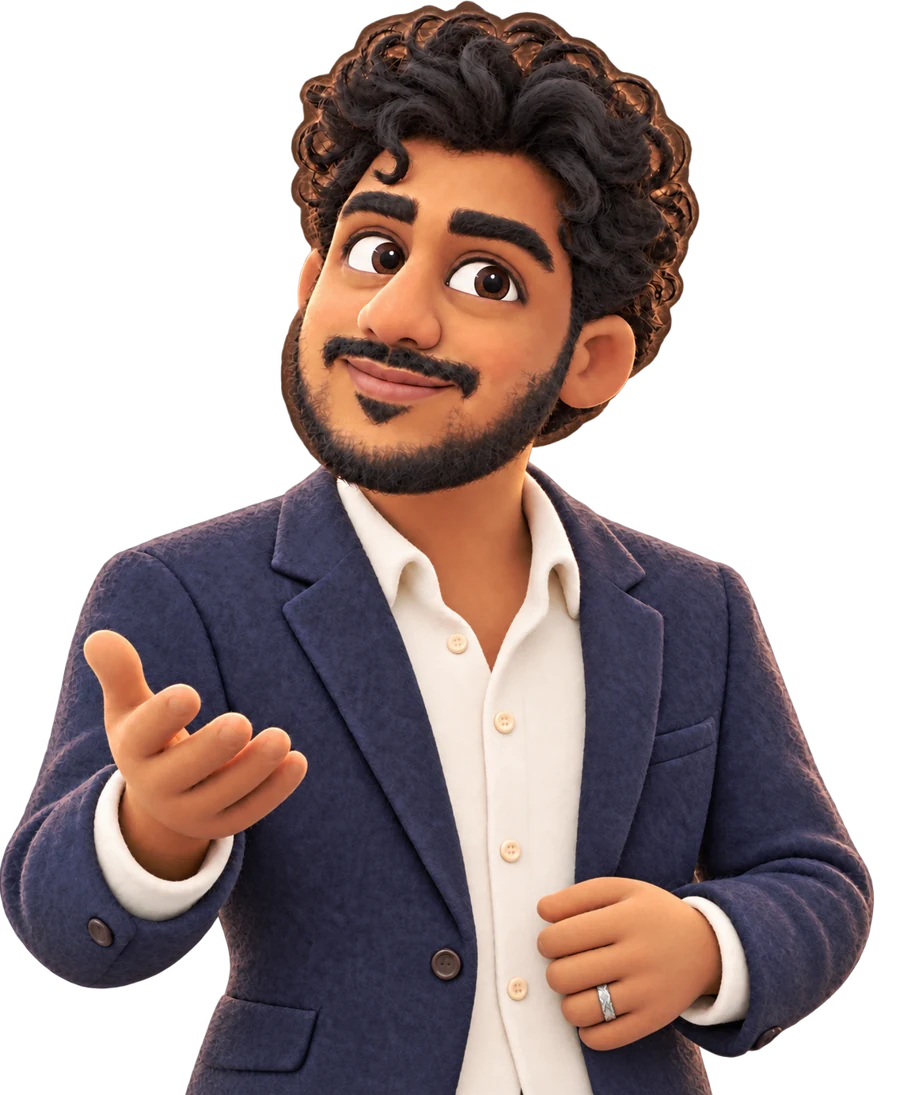
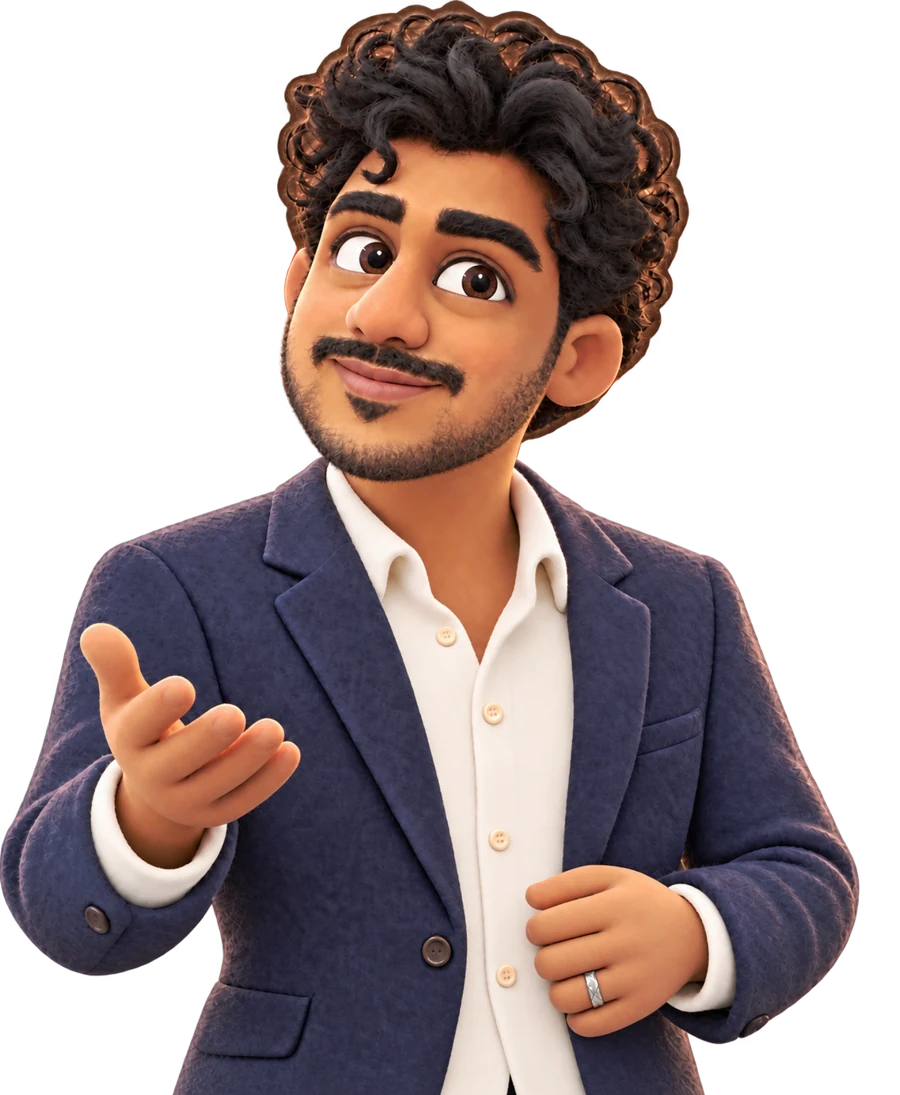
Add scroll-controlled laptop approach and project reveal, lighter beard and readable contact pill

diff --git a/index.html b/index.html
@@ -1,7 +1,7 @@
-<!doctype html><html lang="en"><head><link rel="preload" href="assets/BebasNeue-Regular.ttf" as="font" type="font/ttf" crossorigin><meta charset="utf-8"><meta name="viewport" content="width=device-width,initial-scale=1"><meta name="description" content="Shaik Arham Saquib — Dublin-based Business Intelligence, Data Analytics and Application Support professional. Explore working projects, enterprise experience and MSc research."><link rel="canonical" href="https://arham-bi.vercel.app/"><meta property="og:url" content="https://arham-bi.vercel.app/"><meta name="twitter:card" content="summary_large_image"><meta property="og:title" content="Arham Saquib | BI & Data Analytics · Dublin"><meta property="og:description" content="A Dublin journey through data, enterprise systems and explainable AI. A portfolio by Shaik Arham Saquib."><meta property="og:image" content="https://arham-bi.vercel.app/assets/arham-speaking.webp"><meta name="theme-color" content="#080e0d"><meta name="color-scheme" content="dark light"><meta name="robots" content="index,follow"><title>Arham Saquib | Business Intelligence & Data Analytics · Dublin</title><link rel="icon" href="favicon.ico?v=series4" sizes="any"><link rel="icon" href="assets/favicon.png?v=series4" type="image/png" sizes="48x48"><link rel="stylesheet" href="style.css?v=cinema1"><script defer src="portfolio-data.js?v=series2"></script><script defer src="app.js?v=cinema1"></script><noscript><style>#main-nav{display:flex!important;position:static!important;flex-wrap:wrap;flex-direction:row!important}.nav{position:relative;flex-wrap:wrap}.menu-toggle{display:none!important}.studio-hero{padding-top:40px}</style></noscript><link rel="preconnect" href="https://fonts.googleapis.com"><link rel="preconnect" href="https://fonts.gstatic.com" crossorigin><link href="https://fonts.googleapis.com/css2?family=Anton&family=Inter:wght@400;500;600;700&display=swap" rel="stylesheet"><link rel="stylesheet" href="carousel-build/arham-portfolio.css"><script type="module" src="carousel-build/carousel.js"></script><link href="https://db.onlinewebfonts.com/c/5ac3fe7c6abd2f62067f266d89671492?family=HelveticaNowDisplay-Medium" rel="stylesheet"><link href="https://db.onlinewebfonts.com/c/1aa3377e489837a26d019bba501e779d?family=HelveticaNowDisplayW01-Rg" rel="stylesheet"></head>
+<!doctype html><html lang="en"><head><link rel="preload" href="assets/BebasNeue-Regular.ttf" as="font" type="font/ttf" crossorigin><meta charset="utf-8"><meta name="viewport" content="width=device-width,initial-scale=1"><meta name="description" content="Shaik Arham Saquib — Dublin-based Business Intelligence, Data Analytics and Application Support professional. Explore working projects, enterprise experience and MSc research."><link rel="canonical" href="https://arham-bi.vercel.app/"><meta property="og:url" content="https://arham-bi.vercel.app/"><meta name="twitter:card" content="summary_large_image"><meta property="og:title" content="Arham Saquib | BI & Data Analytics · Dublin"><meta property="og:description" content="A Dublin journey through data, enterprise systems and explainable AI. A portfolio by Shaik Arham Saquib."><meta property="og:image" content="https://arham-bi.vercel.app/assets/arham-speaking.webp"><meta name="theme-color" content="#080e0d"><meta name="color-scheme" content="dark light"><meta name="robots" content="index,follow"><title>Arham Saquib | Business Intelligence & Data Analytics · Dublin</title><link rel="icon" href="favicon.ico?v=series4" sizes="any"><link rel="icon" href="assets/favicon.png?v=series4" type="image/png" sizes="48x48"><link rel="stylesheet" href="style.css?v=zoom2"><script defer src="portfolio-data.js?v=series2"></script><script defer src="app.js?v=zoom2"></script><noscript><style>#main-nav{display:flex!important;position:static!important;flex-wrap:wrap;flex-direction:row!important}.nav{position:relative;flex-wrap:wrap}.menu-toggle{display:none!important}.studio-hero{padding-top:40px}</style></noscript><link rel="preconnect" href="https://fonts.googleapis.com"><link rel="preconnect" href="https://fonts.gstatic.com" crossorigin><link href="https://fonts.googleapis.com/css2?family=Anton&family=Inter:wght@400;500;600;700&display=swap" rel="stylesheet"><link rel="stylesheet" href="carousel-build/arham-portfolio.css"><script type="module" src="carousel-build/carousel.js"></script><link href="https://db.onlinewebfonts.com/c/5ac3fe7c6abd2f62067f266d89671492?family=HelveticaNowDisplay-Medium" rel="stylesheet"><link href="https://db.onlinewebfonts.com/c/1aa3377e489837a26d019bba501e779d?family=HelveticaNowDisplayW01-Rg" rel="stylesheet"></head>
 <body class="light" data-city-scene="skyline"><div class="reading-progress" aria-hidden="true"></div><a class="skip" href="#main">Skip to portfolio</a>
 <header class="nav"><a class="wordmark" href="#top" aria-label="Arham home">ARHAM<span>DUBLIN / DATA & BI</span></a><button id="menu-toggle" class="menu-toggle" type="button" aria-expanded="false" aria-controls="main-nav">Menu <span aria-hidden="true">＋</span></button><nav id="main-nav" aria-label="Main navigation"><a href="#projects">Projects</a><a href="#journey">Experience</a><a href="#dcu">DCU research</a><a href="#skills">Skills</a><a href="#recognition">Recognition</a><a href="#contact">Contact</a></nav><div class="nav-actions"><a href="assets/Shaik_Arham_Saquib.pdf" download class="cv-nav">Download CV ↓</a><button id="theme-toggle" aria-label="Switch to light theme" type="button">☀</button><button id="motion-toggle" type="button" aria-pressed="true">Motion on</button></div></header><main id="main"><section class="immersive-hero" id="top" aria-label="Portfolio introduction"><div id="hero-carousel" class="hero-carousel-mount"><noscript><h1>Arham Saquib · Business Intelligence & Data Analytics</h1><p>Explore my projects, experience and DCU research below.</p></noscript></div><div class="proof-ribbon"><a href="#journey"><strong>2.5+</strong><span>years of enterprise experience<br>Hitachi Digital Services</span></a><a href="#dcu"><strong>MSc</strong><span>Computing · Data Analytics<br>Dublin City University</span></a><a href="#recognition"><strong>✦</strong><span>Hitachi Pinnacle Award<br>View the certificate ↗</span></a></div></section><div class="studio-strip" aria-label="Portfolio focus"><span>ENTERPRISE REPORTING</span><i>✦</i><span>DUBLIN CITY UNIVERSITY</span><i>✦</i><span>EXPLAINABLE AI</span><i>✦</i><span>RELIABLE DATA</span><i>✦</i><span>APPLICATION SUPPORT</span></div>
-<section class="evidence-cinema" aria-label="From enterprise experience to independent work"><div class="cinema-stage"><div class="cinema-heading"><p class="eyebrow">A CLOSER LOOK / SCROLL TO EXPLORE</p><h2>From complexity.<br><span>To clarity.</span></h2></div><div class="cinema-scenes"><article class="cinema-scene cinema-current"><div class="cinema-caption"><small>01 / ENTERPRISE FOUNDATION</small><h3>Find the signal.</h3><p>2.5+ years at Hitachi Digital Services, investigating data issues and supporting enterprise reporting.</p><a href="#journey">Explore my experience ↗</a></div><img src="assets/arham-build.webp" alt="Arham’s illustrated character working on a laptop" width="900" height="1095" loading="lazy"></article><article class="cinema-scene"><div class="cinema-caption"><small>02 / DUBLIN CITY UNIVERSITY</small><h3>Explain the why.</h3><p>Co-authored MSc research connecting XGBoost forecasts, SHAP explanations and residential energy scheduling.</p><a href="#dcu">Explore the research ↗</a></div><img class="cinema-photo" src="assets/arham-dcu-campus.jpeg" alt="Arham beside the DCU letters on campus" width="1536" height="645" loading="lazy"></article><article class="cinema-scene"><div class="cinema-caption"><small>03 / INDEPENDENT PROJECTS</small><h3>Make it useful.</h3><p>Working demonstrations of incident investigation, customer analysis, workforce reporting and data controls.</p><a href="#projects">Open the projects ↗</a></div><img class="cinema-screen" src="assets/opsresolve-dashboard.png" alt="OpsResolve AI incident analytics demonstration dashboard using fictional data" loading="lazy"></article></div><div class="cinema-track" aria-hidden="true"><span></span><span></span><span></span></div><span class="cinema-scroll" aria-hidden="true">KEEP SCROLLING ↓</span></div></section><section class="quick-row section-pad" aria-label="Quick portfolio routes"><div class="row-heading"><h2>Start with the evidence</h2><span>Projects, experience and a downloadable CV</span></div><div class="quick-grid"><a href="#projects"><span class="quick-number">01</span><div><small>THE ORIGINALS</small><strong>Five projects. Five different problems.</strong><span>Explore working demos →</span></div></a><a href="#journey"><span class="quick-number">02</span><div><small>THE JOURNEY</small><strong>Enterprise systems to explainable AI.</strong><span>Follow the timeline →</span></div></a><a href="assets/Shaik_Arham_Saquib.pdf" download><span class="quick-number">03</span><div><small>THE SHORT VERSION</small><strong>The CV, ready when you are.</strong><span>Download PDF ↓</span></div></a></div></section>
+<section id="evidence" class="evidence-cinema" aria-label="From enterprise experience to independent work"><div class="cinema-stage"><div class="cinema-heading"><p class="eyebrow">A CLOSER LOOK / SCROLL TO EXPLORE</p><h2>From complexity.<br><span>To clarity.</span></h2></div><div class="cinema-scenes"><article class="cinema-scene cinema-current"><div class="cinema-caption"><small>01 / ENTERPRISE FOUNDATION</small><h3>Find the signal.</h3><p>2.5+ years at Hitachi Digital Services, investigating data issues and supporting enterprise reporting.</p><a href="#journey">Explore my experience ↗</a></div><div class="laptop-journey"><img class="laptop-person" src="assets/arham-build.webp" alt="Arham’s character holding a laptop with his left hand and working with his right" width="900" height="1095" loading="lazy"><div class="laptop-portal" aria-hidden="true"><div class="portal-chrome"><i></i><i></i><i></i><span>OPSRESOLVE AI / INDEPENDENT DEMO</span></div><img src="assets/opsresolve-dashboard.png" alt="" loading="lazy"><span class="portal-note">From investigation to a working demonstration.</span></div></div></article><article class="cinema-scene"><div class="cinema-caption"><small>02 / DUBLIN CITY UNIVERSITY</small><h3>Explain the why.</h3><p>Co-authored MSc research connecting XGBoost forecasts, SHAP explanations and residential energy scheduling.</p><a href="#dcu">Explore the research ↗</a></div><img class="cinema-photo" src="assets/arham-dcu-campus.jpeg" alt="Arham beside the DCU letters on campus" width="1536" height="645" loading="lazy"></article><article class="cinema-scene"><div class="cinema-caption"><small>03 / INDEPENDENT PROJECTS</small><h3>Make it useful.</h3><p>Working demonstrations of incident investigation, customer analysis, workforce reporting and data controls.</p><a href="#projects">Open the projects ↗</a></div><img class="cinema-screen" src="assets/opsresolve-dashboard.png" alt="OpsResolve AI incident analytics demonstration dashboard using fictional data" loading="lazy"></article></div><div class="cinema-track" aria-hidden="true"><span></span><span></span><span></span></div><span class="cinema-scroll" aria-hidden="true">KEEP SCROLLING ↓</span></div></section><section class="quick-row section-pad" aria-label="Quick portfolio routes"><div class="row-heading"><h2>Start with the evidence</h2><span>Projects, experience and a downloadable CV</span></div><div class="quick-grid"><a href="#projects"><span class="quick-number">01</span><div><small>THE ORIGINALS</small><strong>Five projects. Five different problems.</strong><span>Explore working demos →</span></div></a><a href="#journey"><span class="quick-number">02</span><div><small>THE JOURNEY</small><strong>Enterprise systems to explainable AI.</strong><span>Follow the timeline →</span></div></a><a href="assets/Shaik_Arham_Saquib.pdf" download><span class="quick-number">03</span><div><small>THE SHORT VERSION</small><strong>The CV, ready when you are.</strong><span>Download PDF ↓</span></div></a></div></section>
 <div id="story-sections"><section class="section-pad about-section" id="about" data-city-scene="bridges"><div class="about-label"><p class="eyebrow">EPISODE 01 / THE PROFILE</p><span class="outline-number">01</span></div><div class="about-copy"><p class="eyebrow">HYDERABAD → DUBLIN / ORIGIN & DIRECTION</p><h2>The story behind<br><em>the work.</em></h2><p>My work sits where enterprise systems, reporting and practical problem-solving meet. At Hitachi Digital Services, I investigated data issues, supported Oracle-based environments and worked with teams on reliable reporting and controlled system changes.</p><p>At Dublin City University, I extended that foundation into machine learning and explainable AI. Now I’m looking for Data Analyst, BI, Reporting Analyst and Application Support opportunities in Dublin and across Ireland.</p><div class="profile-facts"><div><strong>2.5+</strong><span>years at Hitachi</span></div><div><strong>MSc</strong><span>Computing · Data Analytics</span></div><div><strong>Dublin</strong><span>Ireland</span></div></div></div></section><section class="section-pad journey-section" id="journey" data-city-scene="bridges"><div class="river-timeline" aria-hidden="true"><svg viewBox="0 0 100 700" preserveAspectRatio="none"><path class="river-track" d="M50 0C-25 130 125 200 50 330S-15 510 50 700"/><path class="river-progress" pathLength="1" d="M50 0C-25 130 125 200 50 330S-15 510 50 700"/></svg></div><div class="section-heading"><div><p class="eyebrow">EPISODE 02 / EXPERIENCE</p><h2>Enterprise roots.<br>A Dublin future.</h2></div><span class="small-note">Experience & education</span></div><div class="season-tabs" role="group" aria-label="Choose a career season"><button type="button" data-season="enterprise" aria-pressed="true">Season 01 · Enterprise</button><button type="button" data-season="research" aria-pressed="false">Season 02 · Research</button><button type="button" data-season="building" aria-pressed="false">Season 03 · Building</button></div><div id="season-content" class="season-content" aria-live="polite"></div><noscript><p>Hitachi Digital Services · February 2023–July 2025. MSc Computing (Data Analytics), DCU · September 2025–August 2026. B.Tech CSE, CMRIT Hyderabad · 2019–2023.</p></noscript></section><section class="section-pad dcu-section" id="dcu" data-city-scene="campus"><div class="dcu-art"><img src="assets/arham-dcu-campus.jpeg" width="1536" height="645" alt="Arham standing beside the DCU letters on campus" loading="lazy"><span>03 / DUBLIN CITY UNIVERSITY</span></div><div class="dcu-copy"><p class="eyebrow">EPISODE 03 / DUBLIN CITY UNIVERSITY</p><h2>Understanding the prediction.<br><em>Explaining the decision.</em></h2><p>At Dublin City University, my MSc connected data analytics with machine learning and explainable AI. My co-authored practicum explored residential energy-load scheduling using XGBoost, SHAP and an LLM scheduling module.</p><div class="dcu-facts"><span>MSc Computing<br><b>Data Analytics</b></span><span>Sep 2025–Aug 2026<br><b>Co-authored practicum</b></span></div><div class="dcu-actions"><button class="button primary" data-open="energy" type="button">Explore the research ↗</button><a class="button glass" href="assets/Practicum_Paper.pdf" target="_blank" rel="noreferrer">Read the paper ↗</a></div><div class="research-process" aria-label="Research method"><span>01 / FORECAST<b>XGBoost</b>Estimate consumption.</span><span>02 / EXPLAIN<b>SHAP</b>Interpret model outputs.</span><span>03 / SCHEDULE<b>LLM module</b>Evaluate cost and constraints.</span></div><small>Co-authored with Bryan Masterson · Supervised by Dr. Muhammad Salman Pathan. Findings apply to the evaluated data and experimental setup.</small><p class="dcu-photo-credit">A personal chapter at Dublin City University · Photograph supplied by Arham.</p></div></section><section class="section-pad project-section" id="projects" data-city-scene="docklands"><div class="section-heading"><div><p class="eyebrow">SELECTED WORK / INDEPENDENT DEMOS & RESEARCH</p><h2>WORK, WITH DEPTH.</h2></div><span class="collection-count" id="project-count" role="status" aria-live="polite">5 projects</span></div><p class="section-sub">Select a volume to explore the problem, method and evidence. Every result has a source and a stated limit.</p><div class="project-filters" role="group" aria-label="Filter projects"><button type="button" data-filter="all" aria-pressed="true">All work <span>5</span></button><button type="button" data-filter="support" aria-pressed="false">Application support <span>1</span></button><button type="button" data-filter="research" aria-pressed="false">Research <span>1</span></button><button type="button" data-filter="analytics" aria-pressed="false">Analytics & reporting <span>3</span></button></div><div class="project-shelf" id="project-shelf" aria-label="Interactive project shelf"></div><div class="shelf-navigation"><button type="button" id="shelf-prev" aria-label="Previous project">←</button><span id="shelf-caption" role="status">Choose a project</span><button type="button" id="shelf-next" aria-label="Next project">→</button></div><div class="collection-grid" id="project-rail"></div><noscript><p>Project previews need JavaScript. You can still open the work directly:</p><p><a href="https://shaikarham.github.io/opsresolve-ai/">OpsResolve AI demo</a> · <a href="assets/Practicum_Paper.pdf">DCU research paper</a> · <a href="https://shaikarham.github.io/customer-segmentation-rfm/site/">Customer Lens demo</a> · <a href="https://shaikarham.github.io/hr-workforce-analytics/site/">Workforce Atlas demo</a> · <a href="https://shaikarham.github.io/bi-reporting-automation/site/">Report Relay demo</a></p></noscript><p class="project-note">Independent demonstrations use fictional data. Customer Lens, Workforce Atlas and Report Relay were built in October 2026. Demo figures are sample outputs, not client results. DCU research is co-authored.</p></section><section class="section-pad" id="skills" data-city-scene="docklands"><div class="section-heading"><div><p class="eyebrow">EPISODE 05 / THE TOOLKIT</p><h2>TOOLS OF THE TRADE.</h2></div></div><div class="skills-grid"><article><span>01 / QUERY & INVESTIGATE</span><h3>Data & databases</h3><p>SQL · PL/SQL · Python · Data validation · Reconciliation</p><small>See the RFM calculations in Customer Lens and SQL controls in Report Relay.</small><button data-open="relay" type="button">Explore Report Relay ↗</button></article><article><span>02 / REPORT & SUPPORT</span><h3>Enterprise intelligence</h3><p>Oracle ERP · OBIA / OBIEE · ODI · Power BI · ETL monitoring</p><small>Enterprise reporting and application-support experience at Hitachi. The portfolio dashboards use HTML and JavaScript.</small><a href="#journey">Explore my experience ↗</a></article><article><span>03 / EXPLAIN & EVALUATE</span><h3>Machine learning</h3><p>XGBoost · SHAP · Forecast evaluation · Explainable AI</p><small>Co-authored DCU research on explainable residential energy scheduling.</small><button data-open="energy" type="button">Explore the practicum ↗</button></article></div></section><section class="section-pad recognition" id="recognition" data-city-scene="skyline"><div class="section-heading"><div><p class="eyebrow">EPISODE 06 / RECOGNITION</p><h2>THE CREDITS.</h2></div></div><div class="award-feature"><button class="award-image" id="award-open" type="button" aria-label="Enlarge Hitachi Pinnacle Award certificate"><img src="assets/hitachi-pinnacle-award.webp" alt="Hitachi Pinnacle Award certificate for Shaik Arham Saquib, The Transformers, Q4 FY24" loading="lazy"></button><div><span class="award-star" aria-hidden="true">✦</span><p class="eyebrow">HITACHI / Q4 FY24</p><h3>Pinnacle Award<br><em>The Transformers</em></h3><p>Recognition for contributions to BI and data-analytics transitions, collaboration and delivery.</p><button class="text-button" type="button" id="award-details">View the certificate ↗</button></div></div><div class="education-row"><article><small>POSTGRADUATE</small><h3>MSc Computing (Data Analytics)</h3><p>Dublin City University · Sep 2025–Aug 2026</p></article><article><small>UNDERGRADUATE</small><h3>B.Tech · Computer Science Engineering</h3><p>CMR Institute of Technology, Hyderabad · 2019–2023</p></article></div><div class="certification-row"><p class="eyebrow">CONTINUED LEARNING</p><div class="certification-grid"><article><span>BUSINESS INTELLIGENCE</span><h3>IBM Cognos Analytics 12.0.0</h3><p>Cloud training · Reporting and analytics</p></article><article><span>CLOUD & AI</span><h3>Oracle Cloud Infrastructure</h3><p>2023 AI Foundations</p></article><article><span>SUPPORT OPERATIONS</span><h3>Customer & Zendesk Support</h3><p>Customer service and support operations</p></article></div></div></section></div>
 <section class="section-pad contact" id="contact" data-city-scene="bay"><div class="bay-horizon" aria-hidden="true"></div><div class="contact-layout"><div class="contact-intro"><p class="eyebrow">AVAILABLE FOR OPPORTUNITIES / DUBLIN & IRELAND</p><h2>Let’s talk.<br><em>What’s next?</em></h2><p>Open to data, business intelligence, reporting and application-support opportunities in Dublin and Ireland.</p><div class="contact-buttons"><a class="button primary" href="mailto:sarhamsaquib@gmail.com">✉ Get in touch</a><a class="button glass" href="https://www.linkedin.com/in/arhamsaquib/" target="_blank" rel="noreferrer">LinkedIn ↗</a><a class="button glass" href="assets/Shaik_Arham_Saquib.pdf" download>Download CV ↓</a></div><a class="email-link" href="mailto:sarhamsaquib@gmail.com">sarhamsaquib@gmail.com</a></div><form action="https://formsubmit.co/sarhamsaquib@gmail.com" method="POST" id="contact-form" class="contact-form" aria-labelledby="contact-form-title">
 <div class="form-honey" aria-hidden="true"><label for="contact-company-url">Leave this empty</label><input id="contact-company-url" name="_honey" tabindex="-1" autocomplete="off"></div><h3 id="contact-form-title">Start a conversation</h3><p class="form-intro">Have a role in mind or a question about my work?</p>

diff --git a/app.js b/app.js
@@ -39,7 +39,7 @@
  $('motion-toggle').addEventListener('click',()=>{userOff=!userOff;save('arham-city-motion',userOff?'off':'on');motion();queue();});reduce.addEventListener('change',motion);motion();
  const menu=$('menu-toggle'),nav=$('main-nav');function closeMenu(){menu.setAttribute('aria-expanded','false');nav.classList.remove('menu-open');}
  menu.addEventListener('click',()=>{const open=menu.getAttribute('aria-expanded')!=='true';menu.setAttribute('aria-expanded',String(open));nav.classList.toggle('menu-open',open);});nav.addEventListener('click',e=>{if(e.target.closest('a'))closeMenu();});document.addEventListener('keydown',e=>{if(e.key==='Escape'&&menu.getAttribute('aria-expanded')==='true'){closeMenu();menu.focus();}});document.addEventListener('click',e=>{if(!e.target.closest('.nav'))closeMenu();});matchMedia('(min-width: 901px)').addEventListener('change',closeMenu);
- let pending=false;function frame(){pending=false;const max=Math.max(1,document.documentElement.scrollHeight-innerHeight);document.documentElement.style.setProperty('--reading-progress',String(scrollY/max));const hero=document.querySelector('.mainframe-hero');if(hero){const progress=Math.max(0,Math.min(1,scrollY/(hero.offsetHeight||1)));hero.style.setProperty('--hero-scroll',String(progress));}const cinema=document.querySelector('.evidence-cinema');if(cinema){const bounds=cinema.getBoundingClientRect();const progress=Math.max(0,Math.min(.999,-bounds.top/Math.max(1,bounds.height-innerHeight)));const step=Math.min(2,Math.floor(progress*3));cinema.style.setProperty('--cinema-progress',String(progress));cinema.querySelectorAll('.cinema-scene').forEach((scene,i)=>{const current=i===step;scene.classList.toggle('cinema-current',current);scene.inert=!current&&!document.body.classList.contains('motion-off')&&innerWidth>700;});cinema.querySelectorAll('.cinema-track span').forEach((dot,i)=>dot.classList.toggle('is-current',i===step));}const sections=[...document.querySelectorAll('main section[id]')];let active='top';sections.forEach(s=>{if(s.getBoundingClientRect().top<=150)active=s.id;});nav.querySelectorAll('a').forEach(a=>{if(a.hash==='#'+active)a.setAttribute('aria-current','location');else a.removeAttribute('aria-current');});}
+ let pending=false;function frame(){pending=false;const max=Math.max(1,document.documentElement.scrollHeight-innerHeight);document.documentElement.style.setProperty('--reading-progress',String(scrollY/max));const hero=document.querySelector('.mainframe-hero');if(hero){const progress=Math.max(0,Math.min(1,scrollY/(hero.offsetHeight||1)));hero.style.setProperty('--hero-scroll',String(progress));}const cinema=document.querySelector('.evidence-cinema');if(cinema){const bounds=cinema.getBoundingClientRect();const progress=Math.max(0,Math.min(.999,-bounds.top/Math.max(1,bounds.height-innerHeight)));const step=progress<.5?0:progress<.75?1:2;const zoom=Math.max(0,Math.min(1,(progress-.07)/.33));cinema.style.setProperty('--laptop-zoom',String(zoom));cinema.style.setProperty('--cinema-progress',String(progress));cinema.querySelectorAll('.cinema-scene').forEach((scene,i)=>{const current=i===step;scene.classList.toggle('cinema-current',current);scene.inert=!current&&!document.body.classList.contains('motion-off')&&innerWidth>700;});cinema.querySelectorAll('.cinema-track span').forEach((dot,i)=>dot.classList.toggle('is-current',i===step));}const sections=[...document.querySelectorAll('main section[id]')];let active='top';sections.forEach(s=>{if(s.getBoundingClientRect().top<=150)active=s.id;});nav.querySelectorAll('a').forEach(a=>{if(a.hash==='#'+active)a.setAttribute('aria-current','location');else a.removeAttribute('aria-current');});}
  function queue(){if(!pending){pending=true;requestAnimationFrame(frame);}}addEventListener('scroll',queue,{passive:true});addEventListener('resize',queue,{passive:true});
  // Content is visible before observation and never waits on an animation to be usable.
  if('IntersectionObserver' in window){const io=new IntersectionObserver(entries=>entries.forEach(e=>{if(e.isIntersecting){if(!reduced())e.target.classList.add('collection-enter');io.unobserve(e.target);}}),{threshold:.05});document.querySelectorAll('#story-sections>section').forEach(s=>io.observe(s));}

diff --git a/style.css b/style.css
@@ -67,3 +67,8 @@ body:not(.light){--bg:#182443;--surface:#243453;--surface2:#314466;--ink:#f3f6ff
 .cinema-heading h2{letter-spacing:-.045em;word-spacing:.04em}.cinema-caption h3{letter-spacing:-.035em;word-spacing:.03em}
 .cinema-heading h2,.cinema-caption h3{font-family:Inter,Arial,sans-serif;letter-spacing:-.045em;word-spacing:normal;font-weight:600}
 body .mainframe-copy h1{font-family:Inter,Arial,sans-serif;letter-spacing:-.045em;word-spacing:normal}body .mainframe-typewriter,body .mainframe-label{font-family:Inter,Arial,sans-serif}
+/* A character-led approach into the work, controlled by natural scroll. */
+.evidence-cinema{height:340svh;--laptop-zoom:0}.laptop-journey{position:relative;height:64svh;align-self:end;min-width:0}.laptop-person{width:100%;height:100%;object-fit:contain;transform-origin:65% 68%;transform:translateX(calc(var(--laptop-zoom)*-12%)) scale(calc(1 + var(--laptop-zoom)*1.05));opacity:calc(1 - max(0,(var(--laptop-zoom) - .5))*1.7);filter:drop-shadow(0 25px 40px #6658b329);will-change:transform,opacity}.laptop-portal{position:absolute;left:4%;right:-1%;top:27%;opacity:clamp(0,calc((var(--laptop-zoom) - .35)*2.5),1);transform:translateY(calc((1 - var(--laptop-zoom))*45px)) scale(calc(.65 + var(--laptop-zoom)*.35));transform-origin:65% 60%;border-radius:16px;background:#fff;box-shadow:0 35px 90px #4d499647;border:1px solid #fff;overflow:hidden;will-change:transform,opacity}.laptop-portal img{width:100%;max-height:46svh;object-fit:contain;background:#f6f8ff}.portal-chrome{height:30px;display:flex;align-items:center;gap:5px;background:#e9edfa;padding:0 12px;color:#425075}.portal-chrome i{width:5px;height:5px;background:#9a9fc7;border-radius:50%}.portal-chrome span{font:600 7px Inter,Arial,sans-serif;letter-spacing:.1em;margin-left:8px}.portal-note{display:block;padding:9px 14px;font:500 10px Inter,Arial,sans-serif;color:#45517a;background:#f5f6ff}body .mainframe-pills .copy-email{opacity:1;color:#253454;background:#ffffffed;border:1px solid #6c79a3;font-weight:600;box-shadow:0 4px 18px #27345610}body .mainframe-pills .copy-email:hover{background:#253454;color:#fff}body:not(.light) .mainframe-pills .copy-email{background:#e9efff;color:#1c2d50;border-color:#fff}.motion-off .evidence-cinema{height:auto}.motion-off .laptop-person{transform:none;opacity:1;will-change:auto}.motion-off .laptop-portal{display:none}
+@media(max-width:700px){.evidence-cinema{height:auto}.laptop-journey{height:380px;width:100%;align-self:center}.laptop-person{transform:none;opacity:1;will-change:auto}.laptop-portal{display:none}}
+@media(prefers-reduced-motion:reduce){.evidence-cinema{height:auto}.laptop-person{transform:none;opacity:1;will-change:auto}.laptop-portal{display:none}}
+.laptop-journey{overflow:hidden;border-radius:24px;isolation:isolate}.laptop-portal{left:2%;right:2%}

diff --git a/src/main.tsx b/src/main.tsx
@@ -31,7 +31,7 @@ function Hero(){
  <div className="mainframe-copy"><p className="mainframe-label">{chapter.label}</p><h1 id="hero-title">{chapter.title}</h1><p className="mainframe-typewriter" aria-label={chapter.text}><span aria-hidden="true">{displayed}{!done&&<i className="typing-cursor"/>}</span></p>
  <div className={`mainframe-pills ${ready?'pills-ready':''}`}><a href={chapter.link}>{chapter.cta} ↗</a><a href="#projects">See my work</a><a href="#contact">Send a brief hello</a><a href="assets/Shaik_Arham_Saquib.pdf" download>Download CV ↓</a><button type="button" className="copy-email" onClick={async()=>{try{await navigator.clipboard.writeText('sarhamsaquib@gmail.com');setCopyStatus('Email copied.');}catch{setCopyStatus('Email: sarhamsaquib@gmail.com');}}}>Reach me: <u>sarhamsaquib@gmail.com</u><svg width="12" height="12" viewBox="0 0 12 12" fill="none" aria-hidden="true"><rect x="4" y="4" width="7" height="7" stroke="currentColor"/><path d="M8 2H2v6" stroke="currentColor"/></svg></button></div><p className="copy-status" role="status">{copyStatus}</p></div>
  <button className="edge-arrow edge-prev" type="button" aria-label="Previous chapter" onClick={()=>navigate(-1)}>←</button><button className="edge-arrow edge-next" type="button" aria-label="Next chapter" onClick={()=>navigate(1)}>→</button>
- <div className="mainframe-bottom"><span>ARHAM SAQUIB / THE DUBLIN EDITION</span><div className="chapter-controls flex items-center"><div className="chapter-dots" aria-label="Choose a chapter">{CHAPTERS.map((c,i)=><button key={c.name} type="button" aria-label={`Go to ${c.name.toLowerCase()}`} aria-current={i===index?'step':undefined} onClick={()=>{if(i!==index)navigate(i-index);}}><span/></button>)}</div><span aria-live="polite">0{index+1} / 04 · {chapter.name}</span></div><a className="scroll-invitation" href="#projects">Scroll to the evidence ↓</a></div>
+ <div className="mainframe-bottom"><span>ARHAM SAQUIB / THE DUBLIN EDITION</span><div className="chapter-controls flex items-center"><div className="chapter-dots" aria-label="Choose a chapter">{CHAPTERS.map((c,i)=><button key={c.name} type="button" aria-label={`Go to ${c.name.toLowerCase()}`} aria-current={i===index?'step':undefined} onClick={()=>{if(i!==index)navigate(i-index);}}><span/></button>)}</div><span aria-live="polite">0{index+1} / 04 · {chapter.name}</span></div><a className="scroll-invitation" href="#evidence">Scroll to the evidence ↓</a></div>
  </section>;
 }
 const mount=document.getElementById('hero-carousel');if(mount)createRoot(mount).render(<Hero/>);

diff --git a/carousel-build/carousel.js b/carousel-build/carousel.js
@@ -10716,7 +10716,7 @@ function ch() {
           W.name
         ] })
       ] }),
-      /* @__PURE__ */ J.jsx("a", { className: "scroll-invitation", href: "#projects", children: "Scroll to the evidence ↓" })
+      /* @__PURE__ */ J.jsx("a", { className: "scroll-invitation", href: "#evidence", children: "Scroll to the evidence ↓" })
     ] })
   ] });
 }
